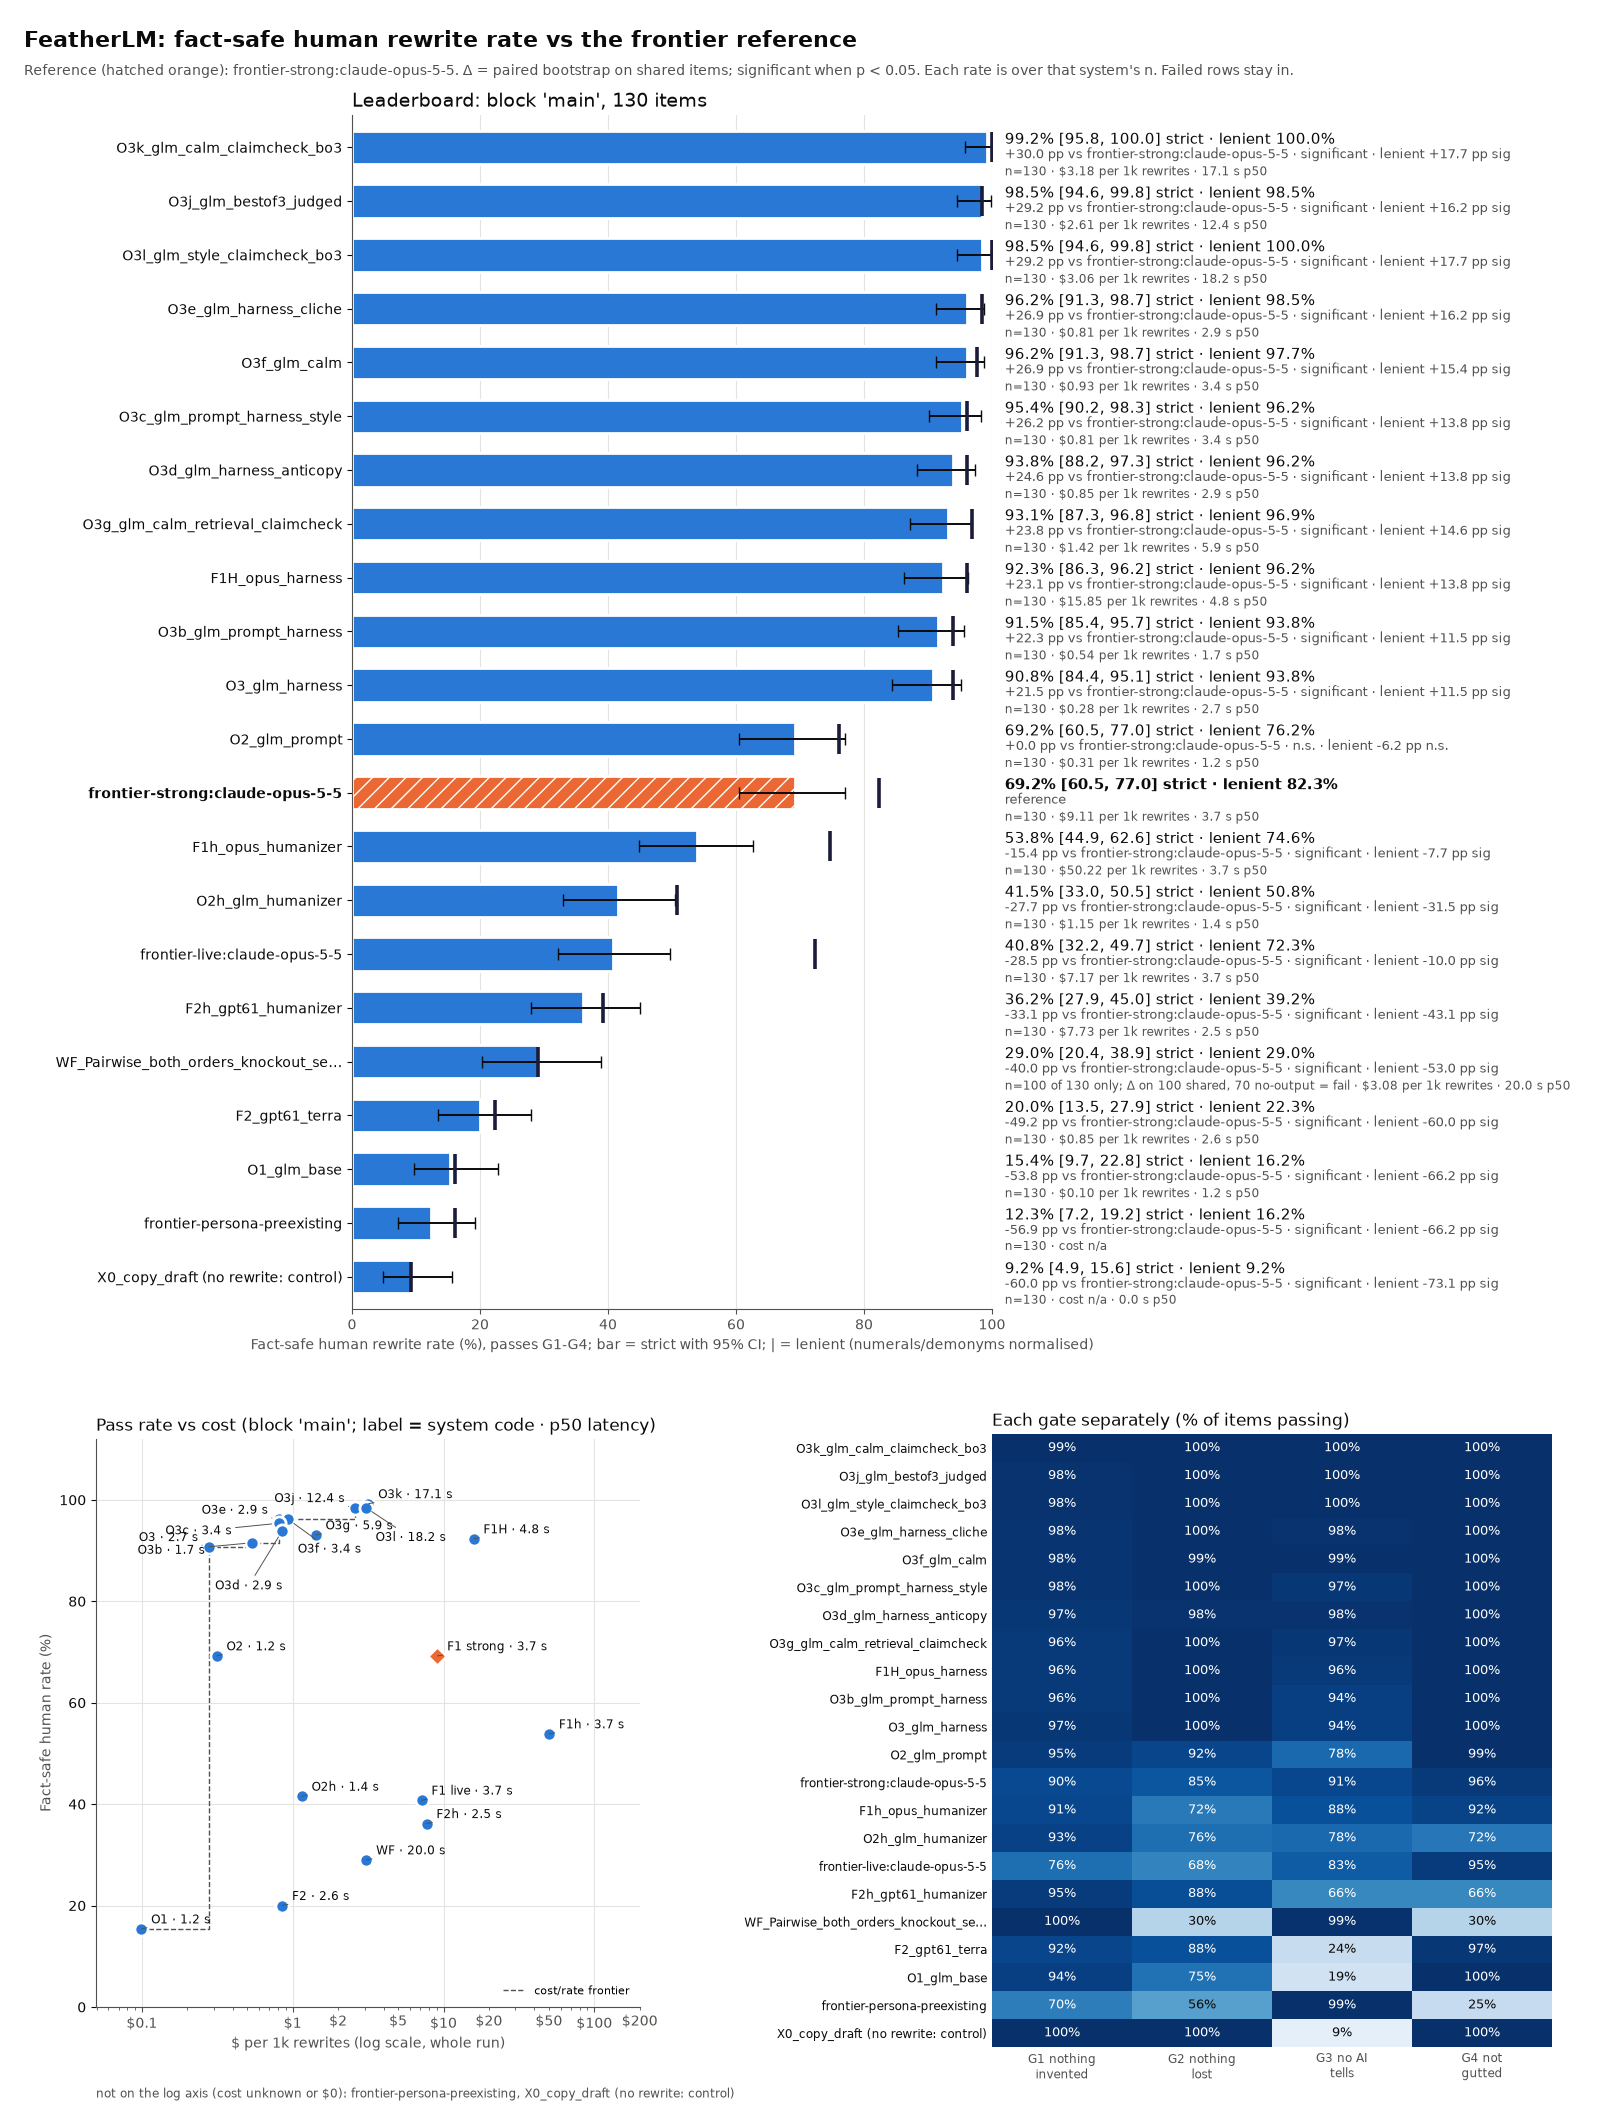
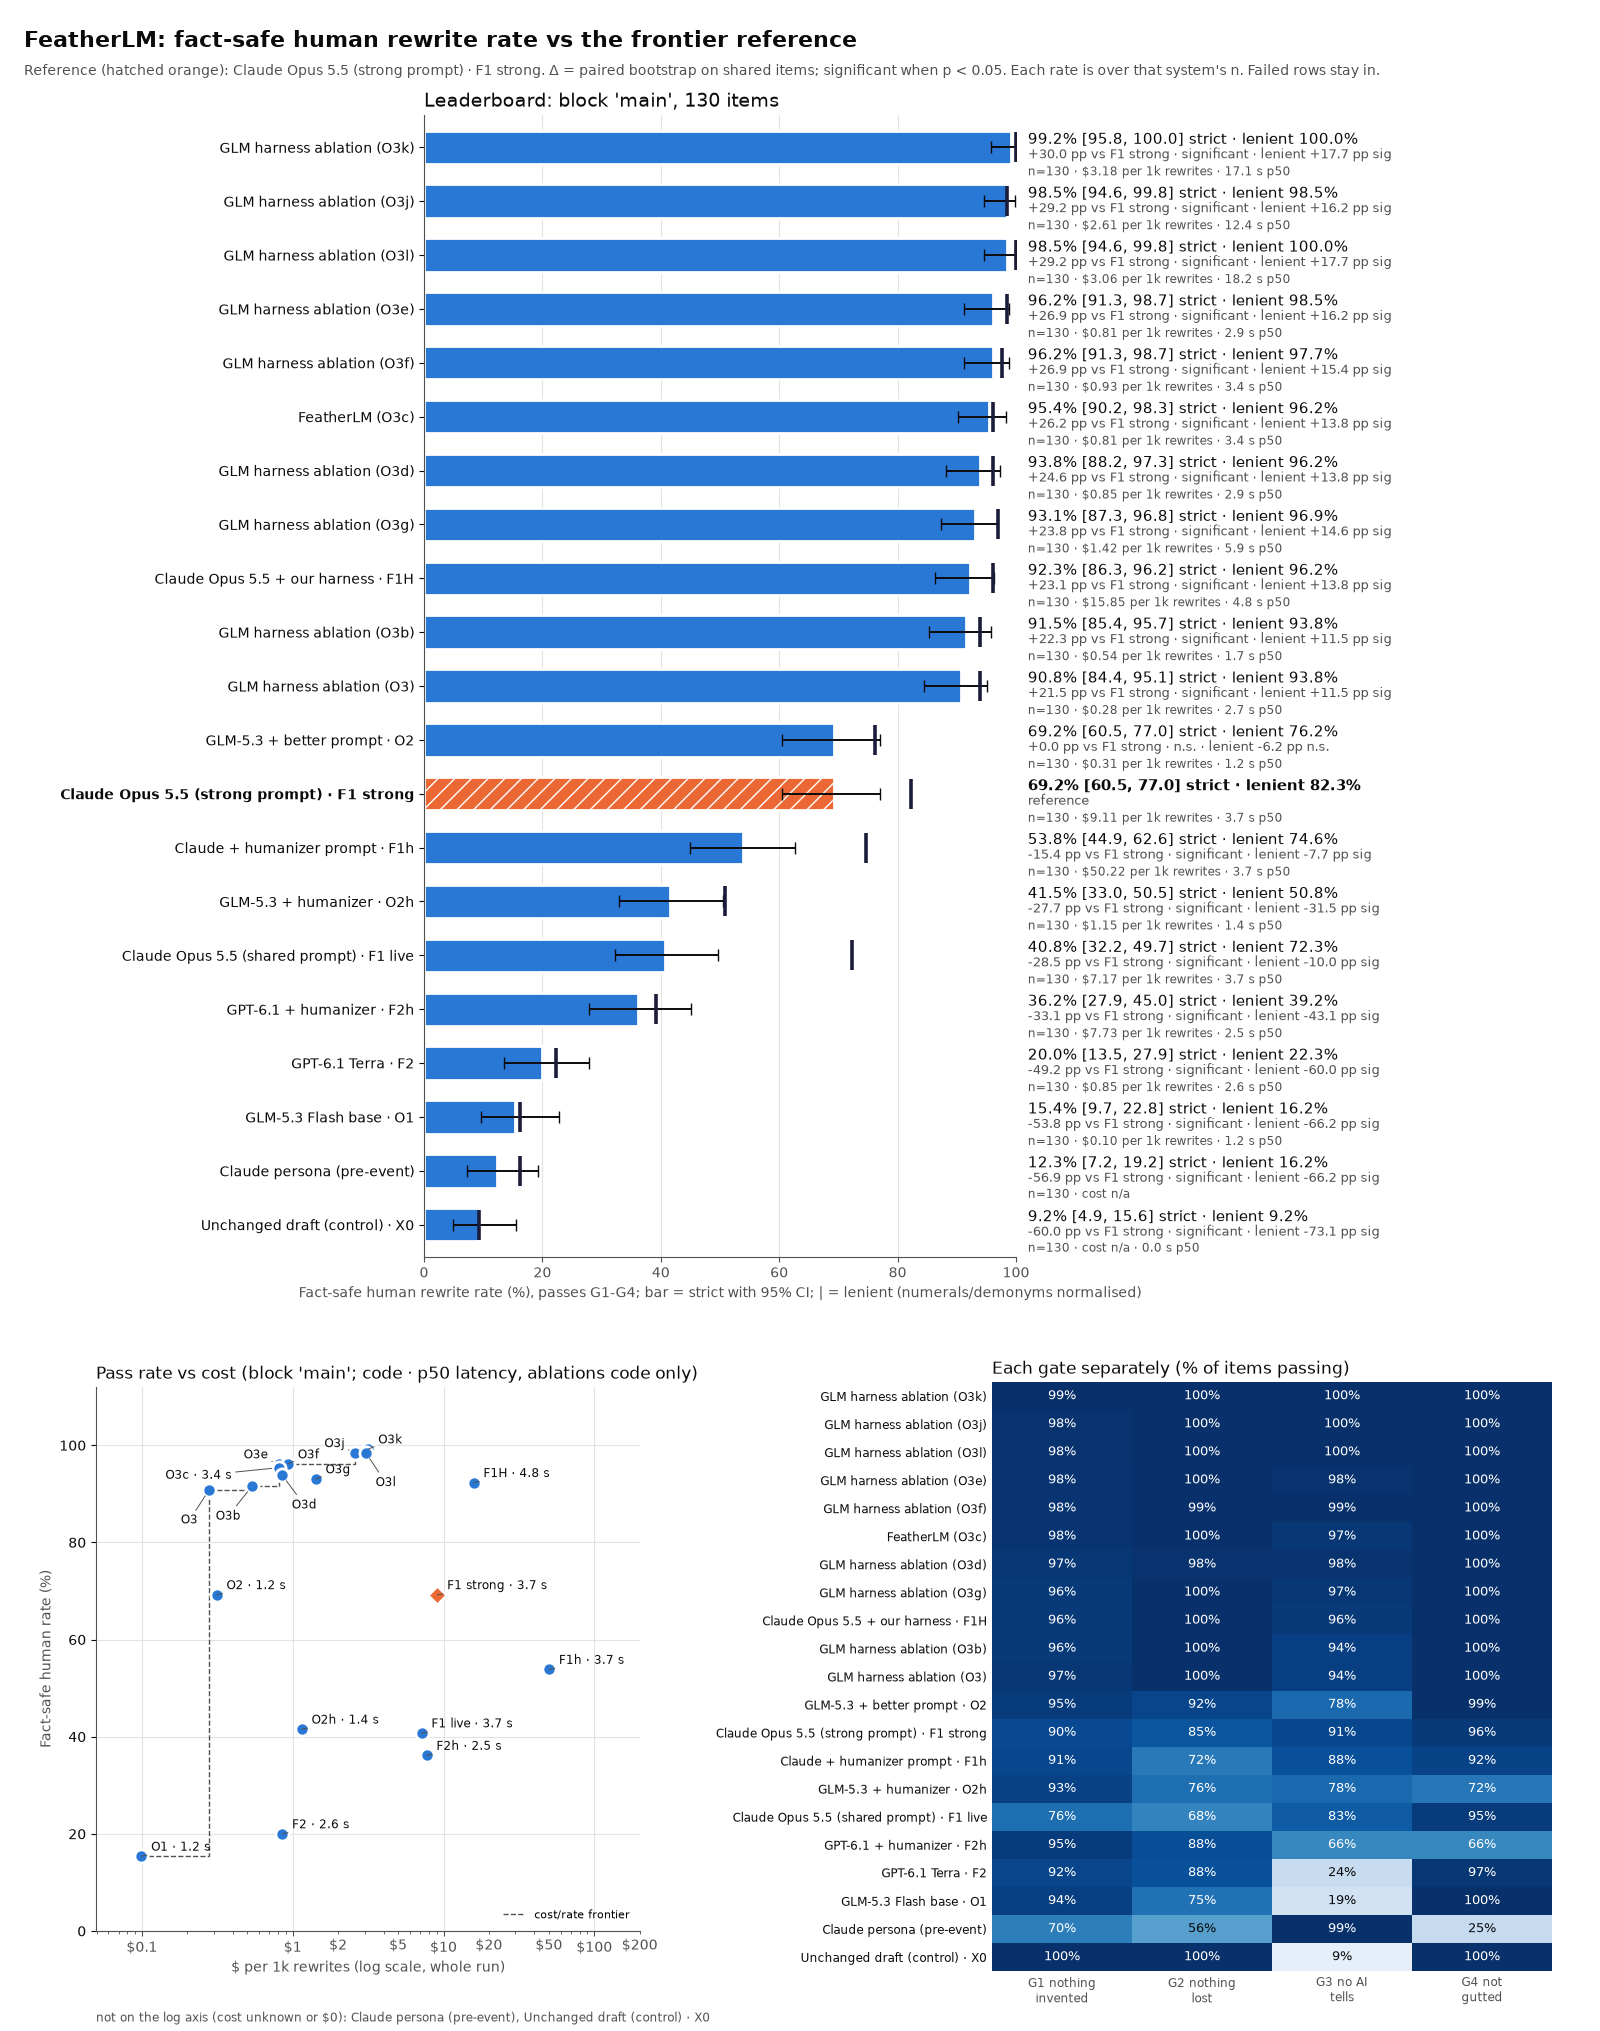
report: deck-readable system names on the leaderboard; WF row excluded upstream
Rows show human names with the system code ("FeatherLM (O3c)", "GPT-6.1
Terra · F2", "GLM harness ablation (O3k)") so readers can match RESULTS.md;
raw ids stay in results.json. Deltas read "vs F1 strong". Cost panel labels
ablations by code only to keep the cluster legible.

diff --git a/hackathon/eval/plot.py b/hackathon/eval/plot.py
@@ -155,7 +155,7 @@ def _leaderboard(ax, rows: list[tuple], name: str, n_items, notes: dict[str, str
         lr = (lenient.get(lab) or (None,))[0]
         if lr is not None:  # lenient rate as a tall tick across the bar
             ax.plot([lr], [yi], marker="|", markersize=22, markeredgewidth=2.6, color=LEN, zorder=4)
-    ax.set_yticks(y, [clip(r[0]) for r in rows])
+    ax.set_yticks(y, [clip(display(r[0])) for r in rows])
     for t, row in zip(ax.get_yticklabels(), rows):
         t.set_fontweight("bold" if row[5] else "normal")
     ax.set_xlim(0, 100)
@@ -185,7 +185,34 @@ _RINGS = [(round(d * math.cos(t)), round(d * math.sin(t)) - 8, "left" if math.co
 _SPOTS = _SNUG + _RINGS
 
 
-def clip(label: str, n: int = 36) -> str:
+# Readable row names for the deck (raw ids stay in results.json). Each name carries the system code so a reader can
+# match the row to RESULTS.md; harness variants not listed read "GLM harness ablation (O3x)".
+DISPLAY = {
+    "O3c_glm_prompt_harness_style": "FeatherLM (O3c)",
+    "frontier-strong:claude-opus-5-5": "Claude Opus 5.5 (strong prompt)",
+    "frontier-live:claude-opus-5-5": "Claude Opus 5.5 (shared prompt)",
+    "F1H_opus_harness": "Claude Opus 5.5 + our harness",
+    "F1h_opus_humanizer": "Claude + humanizer prompt",
+    "F2_gpt61_terra": "GPT-6.1 Terra",
+    "F2h_gpt61_humanizer": "GPT-6.1 + humanizer",
+    "O1_glm_base": "GLM-5.3 Flash base",
+    "O2_glm_prompt": "GLM-5.3 + better prompt",
+    "O2h_glm_humanizer": "GLM-5.3 + humanizer",
+    "X0_copy_draft (no rewrite: control)": "Unchanged draft (control)",
+    "frontier-persona-preexisting": "Claude persona (pre-event)",
+}
+
+
+def display(label: str) -> str:
+    """Human name plus the system code, e.g. 'GPT-6.1 Terra · F2'; unknown O3x rows become 'GLM harness ablation (O3x)'."""
+    code = short(label)
+    name = DISPLAY.get(label)
+    if name is None:
+        return f"GLM harness ablation ({code})" if code.startswith("O3") else label
+    return name if code in name else f"{name} · {code}"
+
+
+def clip(label: str, n: int = 44) -> str:
     """Row label for the chart: long system names end in an ellipsis (the full name stays in results.json)."""
     return label if len(label) <= n else label[: n - 1].rstrip("_ ") + "…"
 
@@ -212,7 +239,9 @@ def _place_labels(ax, points: list[tuple]) -> None:
     pts = [Bbox.from_bounds(x - 7, y - 7, 14, 14) for x, y in ax.transData.transform([(p[1], p[2]) for p in points])]
     boxes = []
     for lab, cost, rate, p50, is_ref in sorted(points, key=lambda p: (-p[2], p[1])):
-        txt = short(lab) + (f" · {p50:.1f} s" if p50 is not None else "")
+        code = short(lab)
+        ablation = code.startswith("O3") and code != "O3c"  # the crowded harness cluster: code only, to stay legible
+        txt = code + (f" · {p50:.1f} s" if p50 is not None and not ablation else "")
         best = None
         for i, (dx, dy, ha) in enumerate(_SPOTS):
             a = ax.annotate(txt, (cost, rate), xytext=(dx, dy), textcoords="offset points", ha=ha, fontsize=8.5,
@@ -231,7 +260,7 @@ def _place_labels(ax, points: list[tuple]) -> None:
 
 
 def _pareto(ax, points: list[tuple], no_cost: list[str], name: str) -> None:
-    ax.set_title(f"Pass rate vs cost (block '{name}'; label = system code · p50 latency)", loc="left", fontsize=12,
+    ax.set_title(f"Pass rate vs cost (block '{name}'; code · p50 latency, ablations code only)", loc="left", fontsize=12,
                  color=INK)
     ax.set_ylabel("Fact-safe human rate (%)")
     ax.set_xlabel("$ per 1k rewrites (log scale, whole run)")
@@ -259,7 +288,7 @@ def _pareto(ax, points: list[tuple], no_cost: list[str], name: str) -> None:
     ax.grid(color=GRID, zorder=0)
     ax.set_axisbelow(True)
     if no_cost:
-        ax.text(0, 0, "not on the log axis (cost unknown or $0): " + ", ".join(no_cost), fontsize=8.5,
+        ax.text(0, 0, "not on the log axis (cost unknown or $0): " + ", ".join(display(x) for x in no_cost), fontsize=8.5,
                 transform=offset_copy(ax.transAxes, fig=ax.figure, y=-58, units="points"),
                 color=INK2, va="top", wrap=True)
 
@@ -272,7 +301,7 @@ def _gates(ax, labels: list[str], mat: list[list[float]]) -> None:
             txt, dark = ("n/a", False) if math.isnan(v) else (f"{v:.0f}%", v >= 60)
             ax.text(j, i, txt, ha="center", va="center", fontsize=9, color="white" if dark else INK)
     ax.set_xticks(range(len(GATES)), [GATE_NAMES[g] for g in GATES], fontsize=8.5)
-    ax.set_yticks(range(len(labels)), [clip(lab) for lab in labels], fontsize=8.5)
+    ax.set_yticks(range(len(labels)), [clip(display(lab)) for lab in labels], fontsize=8.5)
     ax.tick_params(length=0)
     for s in ax.spines.values():
         s.set_visible(False)
@@ -281,7 +310,8 @@ def _gates(ax, labels: list[str], mat: list[list[float]]) -> None:
 def render(res: dict, name: str, out: str) -> str:
     name, b = pick_block(res, name)
     ref = res.get("reference") or ""
-    rows = bar_rows(b, ref)
+    rows = [(lab, r, lo, hi, note.replace(f"vs {ref}", f"vs {short(ref)}"), is_ref)  # "vs F1 strong", not the raw id
+            for lab, r, lo, hi, note, is_ref in bar_rows(b, ref)]
     points, no_cost = pareto_points(b, res.get("systems") or [], ref)
     plt.rcParams.update({"font.family": "DejaVu Sans", "axes.edgecolor": INK2, "axes.labelcolor": INK2,
                          "xtick.color": INK2, "ytick.color": INK, "axes.spines.top": False,
@@ -296,14 +326,14 @@ def render(res: dict, name: str, out: str) -> str:
     notes = {e.get("label"): coverage_note(e, b.get("n_items", "?")) + " · " + cost_note(meta.get(e.get("label")) or {})
              for e in b["systems"]}
     lenient = {e.get("label"): lenient_bits(e) for e in b["systems"] if lenient_bits(e)[0] is not None}
-    _leaderboard(fig.add_axes((0.22, (margin + bottom + gap) / H, 0.40, board / H)), rows, name,
+    _leaderboard(fig.add_axes((0.265, (margin + bottom + gap) / H, 0.37, board / H)), rows, name,
                  b.get("n_items", "?"), notes, lenient)
     _pareto(fig.add_axes((0.06, margin / H, 0.34, bottom / H)), points, no_cost, name)
     _gates(fig.add_axes((0.62, (margin - 0.4) / H, 0.35, (bottom + 0.45) / H)), *gate_rows(b))
     fig.suptitle("FeatherLM: fact-safe human rewrite rate vs the frontier reference", x=0.015, y=1 - 0.3 / H,
                  ha="left", fontsize=16, fontweight="bold", color=INK)
-    ref_line = (f"Reference (hatched orange): {ref}." if any(r[5] for r in rows)
-                else f"Reference {ref} is not in this block, so no Δ is shown.")
+    ref_line = (f"Reference (hatched orange): {display(ref)}." if any(r[5] for r in rows)
+                else f"Reference {display(ref)} is not in this block, so no Δ is shown.")
     fig.text(0.015, 1 - 0.75 / H, ref_line + " Δ = paired bootstrap on shared items; significant when p < 0.05. "
              "Each rate is over that system's n. Failed rows stay in.", fontsize=10, color=INK2)
     os.makedirs(os.path.dirname(os.path.abspath(out)), exist_ok=True)

diff --git a/hackathon/eval/test_plot.py b/hackathon/eval/test_plot.py
@@ -71,10 +71,19 @@ class TestNotes(unittest.TestCase):
         self.assertAlmostEqual(r, 98.0)
         self.assertEqual((head, delta), (" · lenient 98.0%", " · lenient +13.2 pp sig"))
 
+    def test_display_names(self):
+        self.assertEqual(pl.display("O3c_glm_prompt_harness_style"), "FeatherLM (O3c)")
+        self.assertEqual(pl.display("frontier-strong:claude-opus-5-5"), "Claude Opus 5.5 (strong prompt) · F1 strong")
+        self.assertEqual(pl.display("F2_gpt61_terra"), "GPT-6.1 Terra · F2")
+        self.assertEqual(pl.display("O3k_glm_calm_claimcheck_bo3"), "GLM harness ablation (O3k)")
+        self.assertEqual(pl.display("O4_glm_sft"), "O4_glm_sft")  # unknown non-ablation ids stay as they are
+        for lab in pl.DISPLAY:
+            self.assertLessEqual(len(pl.display(lab)), 44)
+
     def test_clip_long_labels(self):
         self.assertEqual(pl.clip("O3c_glm_prompt_harness_style"), "O3c_glm_prompt_harness_style")
         long = "WF_Pairwise_both_orders_knockout_selector_with_fact_aware_eligibility"
-        self.assertTrue(len(pl.clip(long)) <= 36 and pl.clip(long).endswith("…"))
+        self.assertTrue(len(pl.clip(long)) <= 44 and pl.clip(long).endswith("…"))
 
     def test_short_labels(self):
         self.assertEqual([pl.short(x) for x in ("O3c_glm_prompt_harness_style", "F1H_opus_harness", "F1h_opus_humanizer",
